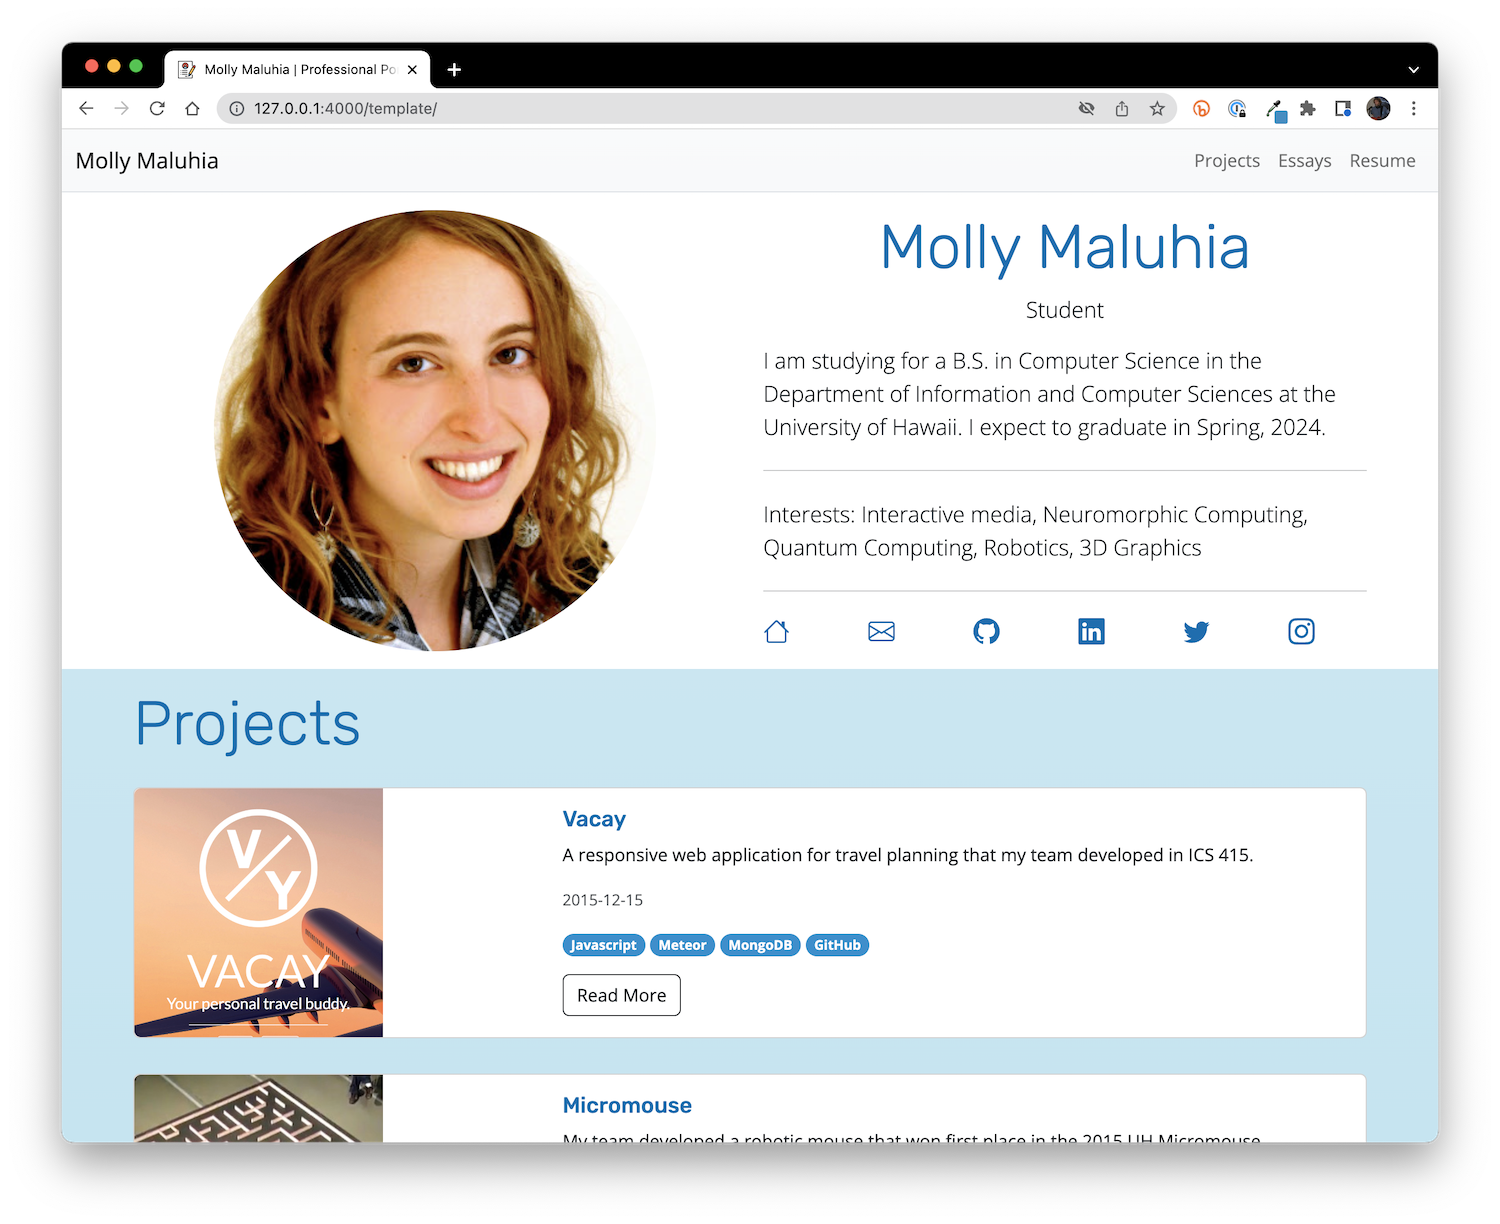
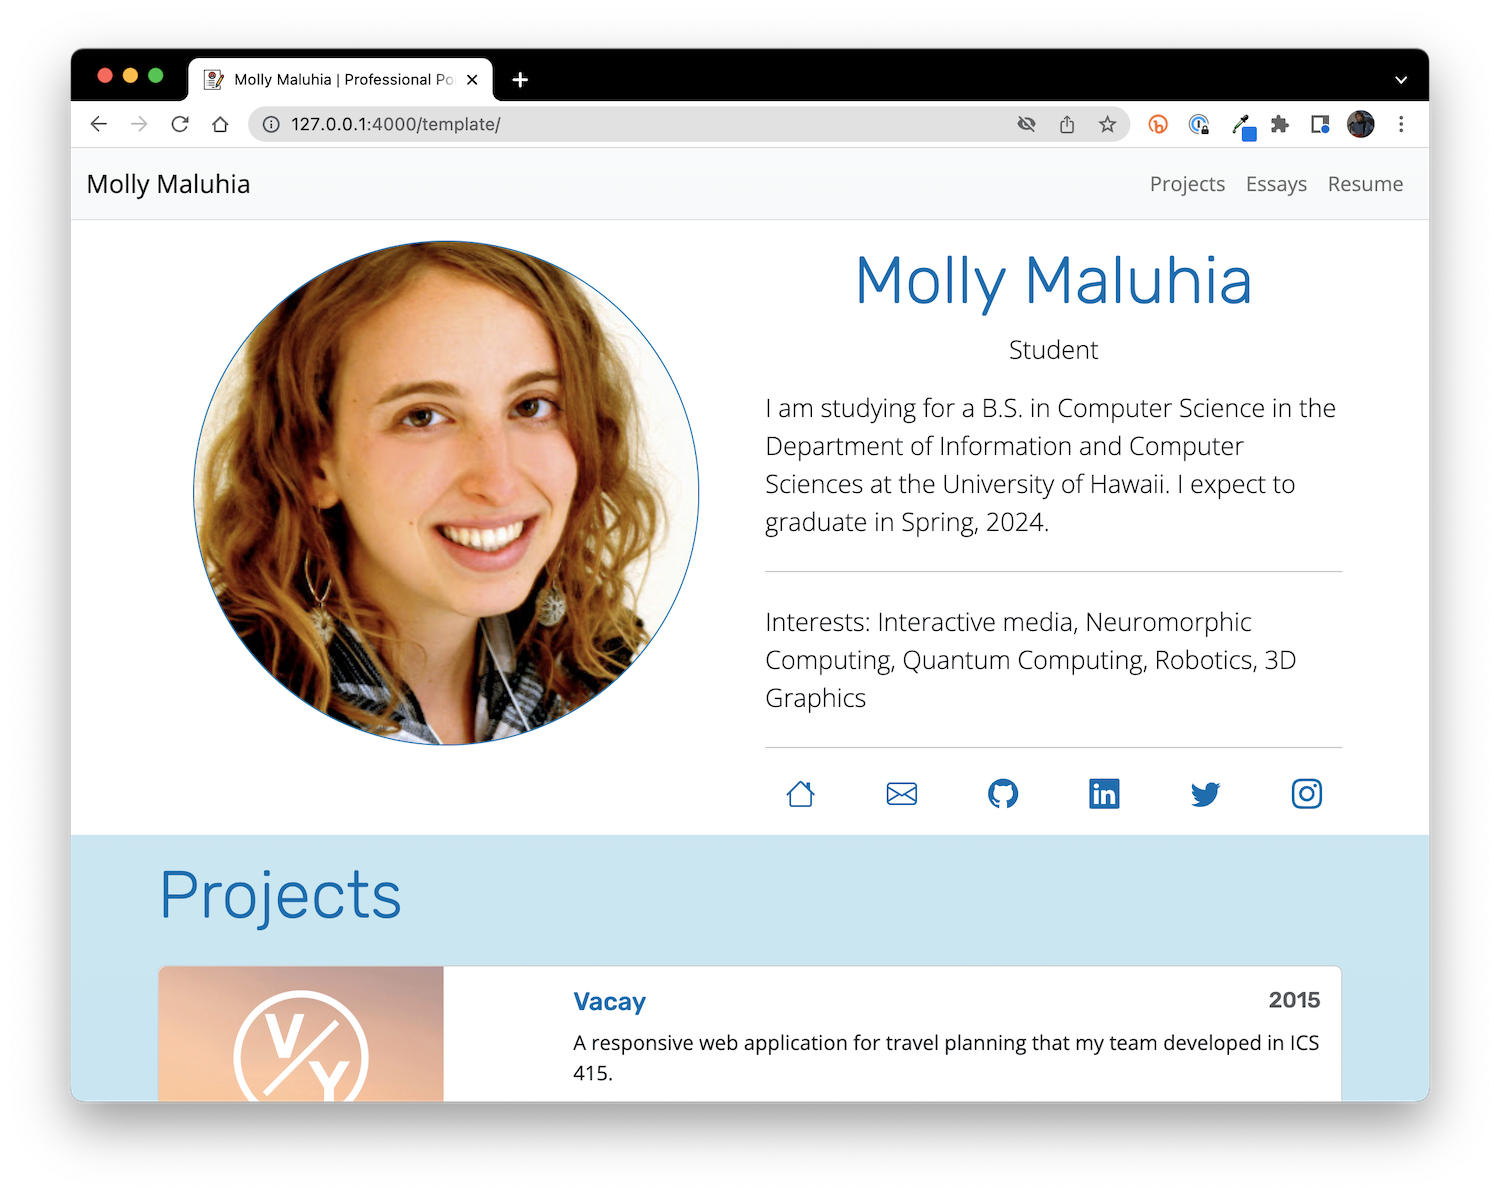
Add skyblue theme

diff --git a/docs/user-guide/customize-theme.md b/docs/user-guide/customize-theme.md
@@ -4,11 +4,11 @@ title: Customize theme
 
 The Quick Start discusses how to [configure the theme](../quick-start/configure-theme) using one of the pre-built themes in the `css/techfolio-template/` directory.
 
-But what if none of these pre-built themes works for you? What if you want a different color(s), or font(s), or want them applied to your portfolio in a different way?  If this is your goal, you need to create your own custom theme.  Let's walk through a simple example.
+But what if none of these pre-built themes works for you? What if you want a different color(s), or font(s), or want them applied to your portfolio in a different way?  If this is your goal, you need to create your own custom theme.  Let's walk through a simple example which illustrates how I developed the skyblue.css theme that is now included with the template.
 
-## Create your custom theme file
+## Create a custom theme file from an existing theme
 
-The first step in developing your own custom theme file is to create a new file in your portfolio's `css/techfolio-template` directory. It's easiest to take one of the existing pre-built themes as a starting point. For the purposes of this example, I'll create a copy of lime.css called skyblue.css in that same directory. 
+The first step in developing your own custom theme file is to create a new file in your portfolio's `css/techfolio-template` directory. It's easiest to take one of the existing pre-built themes as a starting point. For the purposes of this example, I'll create a copy of lime.css named skyblue.css in that same directory. 
 
 Skyblue.css starts off looking like this:
 
@@ -51,7 +51,7 @@ a {
 }
 ```
 
-## Use your custom theme file 
+## Edit `_config.yml` to use your custom theme 
 
 Next, edit your _config.yml file to specify your new theme file:
 
@@ -106,7 +106,7 @@ a {
 
 ## Modify headline font
 
-Finally, I rather liked the Rubik font from the pre-built theme, so I'll copy over the definition and use of that font into my skyblue theme. Here's the final theme definition file:
+Next, I rather liked the Rubik font from the pre-built theme, so I'll copy over the definition and use of that font into my skyblue theme. Here's the updated theme definition file:
 
 ```css
 /* Skyblue Theme: modifies the default theme to use blue in various places. */
@@ -146,6 +146,18 @@ h1,h2,h3,h4,h5 {
 
 a {
   text-decoration: none;
+}
+```
+
+## Outline the headshot in blue
+
+Finally, let's add an outline color to the headshot.  Using [Chrome DevTools](https://developer.chrome.com/docs/devtools/), I inspected the headshot area of the page to learn that it is formatted using the `rounded-circle` class. So, I added a blue border color to that class in skyblue.css:
+
+```css
+.rounded-circle {
+  border-color: var(--tf-blue1);
+  border-style: solid;
+  border-width: 1px;
 }
 ```
 

diff --git a/docs/quick-start/configure-theme.md b/docs/quick-start/configure-theme.md
@@ -11,7 +11,7 @@ The default theme associated with the template uses the Open Sans font and a few
 
 ![](/img/quickstart/css-techfolio-theme-dir.png)
 
-At the time of writing, there are four pre-built themes available: "bitter.css", "default.css", "lime.css", and "rubik.css".
+At the time of writing, there are five pre-built themes available: "bitter.css", "default.css", "lime.css", "skyblue.css", and "rubik.css".
 
 The `_config.yml` file contains a line that specifies the theme associated with a portfolio. By default, it's "default.css":
 
@@ -27,17 +27,23 @@ This theme changes the font to "Bitter":
 
 ![](/img/quickstart/theme-bitter.png)
 
+## rubik.css
+
+This theme changes just the header text to use the chunkier Rubik font:
+
+![](/img/quickstart/theme-rubik.png)
+
 ## lime.css
 
 This theme injects a wee bit of green into the theme:
 
 ![](/img/quickstart/theme-lime.png)
 
-## rubik.css
+## skyblue.css
 
-This theme changes just the header text to use the chunkier Rubik font:
+This theme injects some blue into the theme:
 
-![](/img/quickstart/theme-rubik.png)
+![](/img/user-guide/theme-skyblue.png)
 
 ## Roll your own
 

diff --git a/docs/gallery.md b/docs/gallery.md
@@ -39,9 +39,8 @@ Live site: https://philipmjohnson.org
 
 This portfolio customizes the default template in the following way:
 
-* Provides a custom theme, "skyblue.css" that adds blue highlights in various places and changes the header font to Rubik.
-* Reformats the "About" area---smaller picture, col-4-lg for picture and col-8-lg for text.
-* Removed essays and awards.
+* Uses the skyblue.css theme.
+* Removes essays and awards.
   
 Source code: https://github.com/cammoore/cammoore.github.io
 
